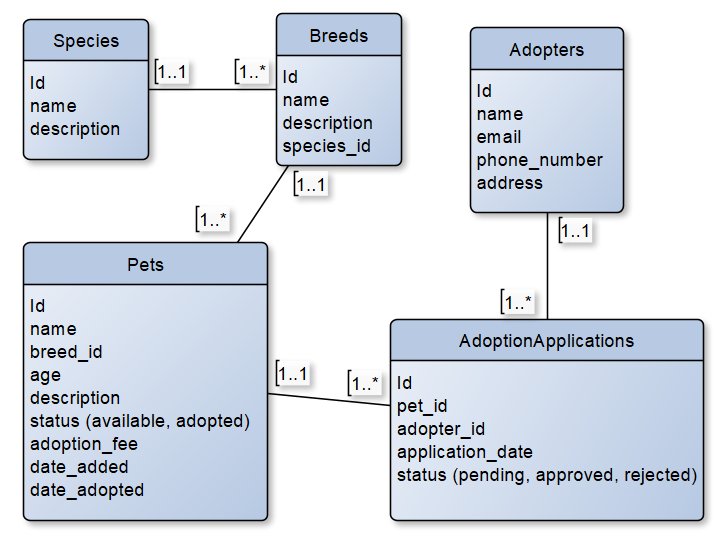
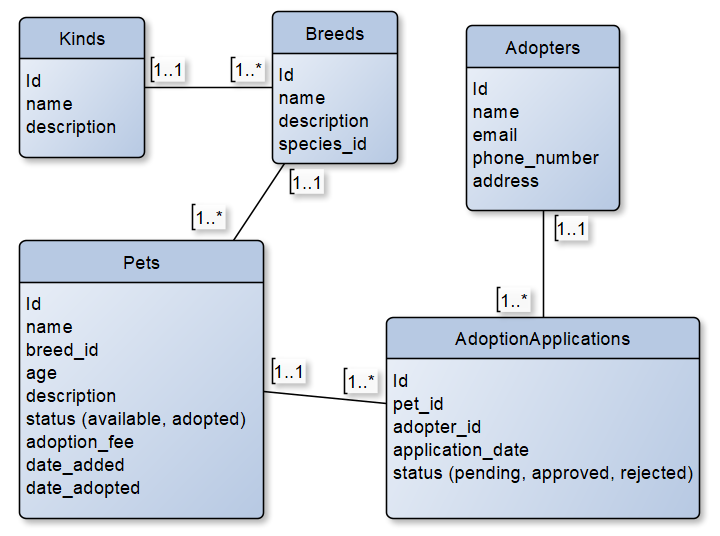
nova slika

diff --git a/README.md b/README.md
@@ -1,26 +1,23 @@
-# Vježbe iz kolegija Baze podataka 2
+Tema projekta je centar za udomljavanje životinja.
+Baza podataka se sastoji od 5 tablica, i to:
+- Kinds, 
+- Breeds,
+- Pets,
+- Users,
+- AdoptionApplications.
 
-**Nositelj kolegija:** [Daniel Vasić](https://github.com/danielvasic)
+Korištene tehnologije u ovome projektu su:
+- Python,
+- MySql,
+- Flask,
+- Kafka,
+- Redis,
+- Docker,
+- JQuery.
 
-**Demo programske podrške:** [Ovdje](http://129.152.0.114:5000/) možete pronaći pokrenut primjerak programa.
+Kafka i JQuery su korišteni u pets, kinds i breeds za dodavanje podataka u stvarnom vremenu bez osvježavanja stranice tako da svi korisnici mogu vidjeti nove podatke u stvarnom vremenu, a redis za brže dohvaćanje podataka i manje opterećivanje sustava.
 
-Dobro došli u repozitorij vježbi za kolegij **Baze podataka 2**. Ovaj kolegij se izvodi na Fakultetu prirodoslovno-matematičkih i odgojnih znanosti Sveučilišta u Mostaru. Studijski program očekuje od studenata da se upuste u učenje i istraživanje naprednih koncepta razvoja web aplikacija, koristeći niz modernih tehnologija, uključujući:
-
-- Razvoj sustava baziranih na web tehnologijama za upravljanje podacima u bazi podataka,
-- Korištenje Docker tehnologije,
-- Razvoj aplikacija korištenjem Docker platforme,
-- Korištenje JQuery i Flask tehnologija za rad s podacima u stvarnom vremenu,
-- Korištenje Kafka i Redis za uspješnu komunikaciju i smanjenje opterećenja na sustav.
-
-Za pokretanje aplikacije lokalno sve što je potrebno je pokrenuti sljedeću naredbu:
-
-```
-docker compose up --build
-```
-Napomena: Pripaziti prilikom pokretanja na atribut `platform: linux/x86_64` u `docker-compose.yaml` datoteci ukoliko pokrećete na **Windows** operacijskom sustvu ukloniti ovaj atribut iz YAML datoteke.
-
-
-Relacijski model baze podataka implementiran u SQLAlchemy programskom okruženju:
+Izgled relacijskog modela baze podataka:
 
 ![ERD](petsmodel.png)
 
